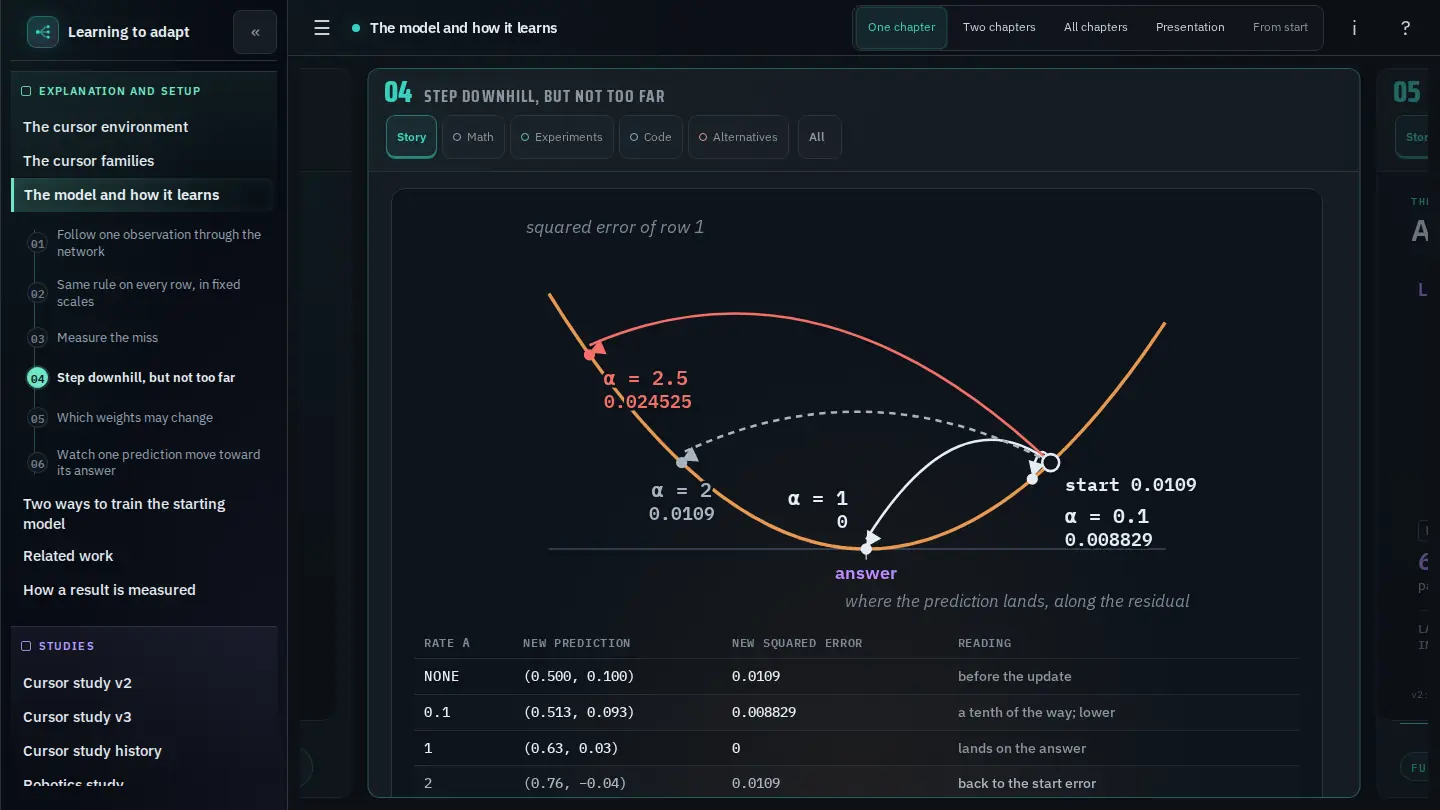
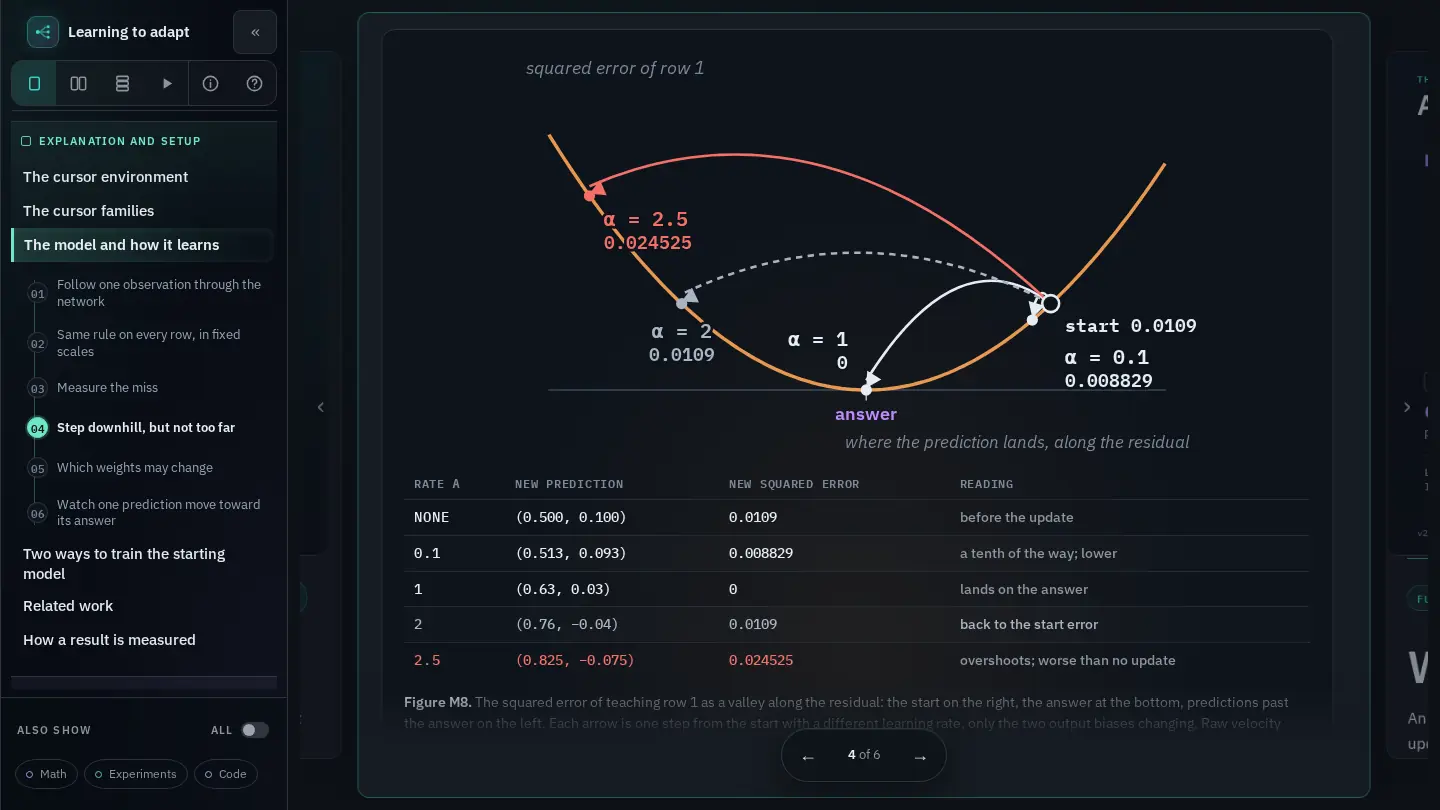
Prepare release 5.7.0: one note for the reader, the colours and the tabs
The branch joins three pieces of work: the new chapter reader, a
project's own site colours with site names in browser tabs, and the
correction for repeated ids of inlined figures. They ship as one
release, so the release note is one section with a part for each, a
part on what a project can meet with the new reader, and what was not
covered. The version is 5.7.0, a minor release without a migration
step.

The open record for the two colour follow-ups of the reader is removed
with its route: both are done. The authoring guide no longer says that
the bar of fold controls stays navy.

The six reader pictures of the showcase are retaken with the new
reader, from the same adaptation commit as before.

The worklog entry records deivid's decisions that led to one release,
how the two branches were joined and what is not checked.

diff --git a/tests/test_theme_colors.py b/tests/test_theme_colors.py
@@ -158,7 +158,7 @@ class Colours(unittest.TestCase):
 
     def test_scripts_draw_their_controls_in_theme_colours(self):
         # Styles that scripts inject read the same properties, with the kit's value as fallback.
-        # The reader's own scripts are left for the reader branch; fold-controls.js stays literal.
+        # Every script is scanned, the reader's own and fold-controls.js included.
         for path in sorted((KIT / 'theme/components').glob('*.js')):
             text = re.sub(r'var\(--[\w-]+,\s*[^()]*\)', '', path.read_text())  # a property with its fallback
             literals = re.findall(r'#[0-9a-fA-F]{6}\b|#[0-9a-fA-F]{3}\b(?![\w-])', text)

diff --git a/docs/topics/releases/releases.md b/docs/topics/releases/releases.md
@@ -26,14 +26,65 @@ gives the step for each. A minor upgrade can therefore need work: the
 [project conformance check](../../../rules/conformance.md) runs strict lint and
 shows the new warnings.
 
-## Unreleased
+## 5.7.0 — a calmer chapter reader, a project's own site colours, site names in browser tabs
 
-The version number is set when this is released. These changes add to the
-stable interfaces, and a project needs no migration step. Without
-`[theme_colors]` the pages look as before; the tab title changes on every
-site that sets `title`. A project whose own browser checks read
-`document.title` or a page's `<title>` must expect the new tab text: the
-kit's own tests changed in four files for it.
+5.7.0 is a minor release under
+[what a version number promises](#what-a-version-number-promises): it adds
+to the stable interfaces, changes how the reader looks and works, corrects
+one defect of the build, and removes nothing a project may rely on. It needs
+no migration step; a project moves its pin to `v5.7.0`. Three things change
+on a site without any action, and a project should look at them once: the
+chapter reader has a new frame, the browser tab names the site first, and a
+reader's choice of section options now holds for the whole page. A project
+whose own browser checks read `document.title` or a page's `<title>` must
+expect the new tab text: the kit's own tests changed in four files for it.
+
+### A calmer chapter reader
+
+deivid put adaptation's home page beside one of its chapters and found the
+chapter less inviting: the frame around a chapter competed with the chapter.
+Four prototypes and a fifth built from his choices led to this reader; he
+tried each step in a browser before it was built into the kit.
+
+- **No top bar while the sidebar is docked.** One row of icons under the
+  site name holds one chapter, two chapters, all chapters, Presentation on a
+  page with a slide face, About and Help. When the sidebar is hidden, or the
+  window is 900 px wide or narrower, a bar with the menu button and the page
+  name stays and the same controls are in the drawer.
+- **A floating stepper.** Previous, the position such as "4 of 6" and next
+  sit in one island at the bottom centre of the chapter. It steps back while
+  the chapter scrolls. The chapter's text fades out above that line.
+- **The Full chapter row sits on the stepper's line** while a chapter is at
+  its top: the label and the reading time at the left, Continue reading at
+  the right. It leaves when the chapter is scrolled. Where the chapter is
+  narrow, the reading time gives way first, then the label.
+- **A chapter's name is its headline.** In One chapter view the strip with
+  the number and the name is gone, and the headline that starts the full
+  chapter is large. A chapter without a headline of its own keeps the strip.
+- **The neighbouring chapters still peek.** The chapter in front takes 89.8%
+  of the stage, where it took 88%; the neighbours are drawn at 90% of their
+  size and dimmer. The click zone of a neighbour is exactly the strip of it
+  that shows. A sideways swipe turns the chapter too; a drag that starts on
+  a control, a figure, a table or anything that scrolls sideways is left
+  alone, and so is any drag while the page is zoomed.
+- **One set of section options for the page.** Under "Also show" at the
+  bottom of the sidebar, an option opens every fold of one kind in every
+  chapter and in both columns. A page offers only the kinds of fold it has.
+  "All" is a switch, and there is no "Story" button: with nothing switched
+  on, the story is what shows. The buttons under each chapter heading are
+  gone. A reader who returns keeps the choice the first column had. In All
+  chapters the Slides switch sits there as well.
+- **A fold can start open, and it remembers its reader.** An author writes
+  `<!-- fold: math (open) Title -->`; a fold written as HTML with `open`
+  counts the same. A reader's own click on a fold is saved for that fold, up
+  to 200 folds a page, and wins on the next visit until an option sets its
+  kind again. See [story and reading layers](../../../rules/writing/explanations.md#story-and-reading-layers).
+- **"From start" is gone.** The Presentation starts at the current chapter.
+- **Pages without the reader** get the same reduced set in their bar of fold
+  controls: no "Story", "All" as a switch, only the kinds the page has.
+- **The rules say that the home page has the reader off.** All four sites
+  already set `reader = false` there; see
+  [shared reading layout](../../../rules/site/reader.md#shared-reading-layout).
 
 ### A project's own site colours
 
@@ -59,9 +110,9 @@ on the kit's navy background.
   colours, and keep the kit's exact value until a project sets one of the
   two. The controls that scripts draw (lightbox, carousel, plot-toggle chips,
   the lock page's notice) read the same properties, and the six group tones
-  and the sidebar's glows follow the hue colours. Syntax colours, the fold
-  hues, the bar of fold controls that `fold-controls.js` draws (still navy),
-  the tinted edges of diagram boxes, print colours and the light backdrop of
+  and the sidebar's glows follow the hue colours. The new reader's parts and the bar of fold
+  controls that `fold-controls.js` draws follow the table as well. Syntax
+  colours, the four fold hues, the tinted edges of diagram boxes, print colours and the light backdrop of
   site-map pictures stay as they were. Colours written in a project's own SVG
   or HTML stay as written.
 - **Figures in the project's colours.** `figure_themes.palette("dark")`,
@@ -75,14 +126,12 @@ on the kit's navy background.
   pair, and `write_both` writes no file. See
   [generated figures](../../../rules/site/authoring.md#generated-figures).
 
-Without the table the pages look exactly as before: screenshots of a
-project's reader, record, listed, Reference index, home and lock pages at
-1600 and 390 px are pixel-identical, and every rule of the eight theme
-stylesheets resolves to the colours it had. The bytes of `base.css`,
-`chapter-reader.css`, `slide-face.css`, `slide-deck.css`, `page-lock.css`,
-`panel-switcher.css`, `home.css`, `build-sheet.css`, `carousel.js`,
-`lightbox.js`, `nav.js`, `plot-toggles.js` and `page-lock.js` change, so each
-page gets new `?v=` queries for them, as for any theme change.
+Without the table the colours are the kit's, as before: every rule of the
+eight theme stylesheets that 5.6.1 had resolves to the colour it had, and
+before the reader changed, screenshots of a project's reader, record, listed,
+Reference index, home and lock pages at 1600 and 390 px were pixel-identical.
+The bytes of the theme's stylesheets and scripts change, so each page gets
+new `?v=` queries for them, as for any theme change.
 
 ### Browser tabs name the site first
 
@@ -100,12 +149,10 @@ starts with the site's `title`:
   [authoring paths](../../../rules/site/authoring.md#authoring-paths).
 
 Every built page of a site with `title` changes in its `<title>` element.
-## 5.6.2 — figures inlined into a page without the reader no longer repeat ids
+### Figures inlined into a page without the reader no longer repeat ids
 
-5.6.2 is a patch release under
-[what a version number promises](#what-a-version-number-promises): it
-corrects one defect of the build and needs no migration step; a project
-moves its pin to `v5.6.2`. ADP reported it: its home page repeated 242 ids.
+ADP reported it: its home page repeated 242 ids. This correction was built
+as 5.6.2 and ships in 5.7.0; there is no separate 5.6.2.
 
 - **The defect.** The build inlines an SVG figure written as
   `<img src="../figures/name.svg">`. On a page with the chapter reader it
@@ -122,7 +169,7 @@ moves its pin to `v5.6.2`. ADP reported it: its home page repeated 242 ids.
   the id. The first figure with an id keeps it. A page with the reader is
   built as before.
 
-What a project can meet. On a page without the reader, an id inside the
+What a project can meet with this correction. On a page without the reader, an id inside the
 second or a later inlined figure changes when an earlier figure has the
 same id. A link from the page's text to such an id reached the first
 figure before and still does. A group of plot toggles keeps the start of
@@ -137,6 +184,32 @@ the first figure, as before. On a page with the reader, a `<style>` rule
 that selects an id is not rewritten; that is older than this release. The
 correction was run on fixtures and on 1,092 SVG files of local projects,
 not on ADP's built home page.
+
+### What a project can meet with the new reader
+
+- **Styles or checks of a project that reach into the reader.** These hooks
+  are gone: `[data-reader-view-select]`, `[data-reader-present-start]`,
+  `.chapter-layers` inside a chapter and `[data-reader-preset]`. The bar
+  `#chapter-reader` is not visible while the sidebar is docked. The reader's
+  class names are provisional interfaces; a project that styled or tested
+  them looks at its pages once.
+- **A fold title that starts with "(open) ".** It is now read as the word
+  that starts the fold open. "(Open)", "(open)" alone and a title with the
+  word elsewhere are titles as before.
+- **A fold written as HTML with `open`.** The reader closed it before; it
+  now starts open, as its author wrote.
+- **Two columns, one choice.** The Two chapters view no longer keeps a
+  choice of options for each column.
+
+### Not covered
+
+Chromium only, as before. No real phone was used: swipe, the drawer and the
+stepper at phone width were run in an emulated touch browser. The swipe
+exemptions for a slider and for a zoomed page are covered by logic tests,
+not in a browser. The bar of fold controls on a page without the reader was
+not looked at under a project's colours. The page types of 5.6.0 and the
+showcase are unchanged, except that the six reader pictures of the showcase
+are retaken with this reader.
 
 ## 5.6.1 — the showcase pictures retaken, and a line on what each shows
 

diff --git a/docs/KIT_WORKLOG.md b/docs/KIT_WORKLOG.md
@@ -2,6 +2,50 @@
 
 Chronology is append-only, newest first. Shared policy stays in `rules/`.
 
+## 2026-11-26 — 5.7.0 on one branch: the new reader joined with the site colours
+
+- One release, by deivid's decisions in order. On the id fix: "well maybe
+  make it one relase not 2". On the order of reader and palette: "Palette
+  first". On releasing the id fix alone before both: "No, keep it with the
+  reader". On one release for palette and reader, owned by the kit owner's
+  session: "Yes, combine here". There is no 5.6.2 tag; its two entries below
+  describe the id fix that ships here.
+- The reader. deivid compared adaptation's home page with a chapter and
+  found the chapter's frame too busy. Four prototypes, laid over a built
+  page as styles, then a fifth from his choices, which he tried in a local
+  copy and changed step by step: views into the sidebar, the stepper as a
+  floating island, the Full chapter row on its line, the chapter's name as
+  headline, narrower and smaller neighbours with fitted click zones, swipe,
+  and the section options back as one set for the page at the bottom of the
+  sidebar, without "Story". "Yes, build 5.7.0."
+- Built by one implementer agent in three commits, with tests, from a
+  written brief and the prototype. An independent review, with no browser,
+  found it not fit to release: hidden click zones that still took clicks in
+  All chapters and on the first and last chapter, folds that closed again
+  on return, keyboard focus under the fade, swipes that fired on sliders,
+  and four smaller points. The implementer confirmed each in a browser and
+  fixed all in one commit with tests.
+- Joined. The palette session handed over branch `site-palette` at
+  `9584cb3` and stopped writing. The reader's eight commits were replayed
+  on it as branch `release-5.7.0`. Conflicts: three blocks in
+  `chapter-reader.css`, where the reader's structure and the palette's
+  colour were both kept, and the two records.
+- The reader's new parts and the bar of `fold-controls.js` read the theme
+  properties, and the three reader scripts are no longer exempt from the
+  script colour test. Without a table, a capture of a chapter before and
+  after differs by at most 2 of 255 in the island and the options panel,
+  where the nearest existing property was taken; nothing else differs. With
+  the brown palette of the first project, the reader's parts are brown.
+- Closed and removed: `docs/open/reader-release-colour-follow-ups.md` with
+  its route. Both of its items are done; the four fold hues are named as
+  kept in the authoring guide. The link to it in the entry of the review
+  fixes below is now plain text.
+- Rules: the reader rules describe the new reader, the explanation rules
+  the `(open)` word, and the home page is said to have the reader off.
+- Not checked: a real phone; swipe exemptions and pinch zoom in a browser;
+  the fold bar of a page without the reader under a project's colours.
+- Not pushed and not tagged. Release waits for deivid's go.
+
 ## 2026-11-26 — `accent` colours the first figure series
 
 - deivid decided against separate interface and content colours: `accent`
@@ -63,7 +107,7 @@ Chronology is append-only, newest first. Shared policy stays in `rules/`.
   longer passed to the lock, `page_lock.py`, `publication.py`,
   `page-lock.html` and two tests are back to their state before the tab
   titles, and a test checks that no lock page holds the site's title.
-- New open work: [two theme-colour follow-ups for the reader release](open/reader-release-colour-follow-ups.md),
+- New open work: two theme-colour follow-ups for the reader release (closed, and the record removed, in the 5.7.0 entry at the top),
   the fold controls and the redone colour commit of `chapter-reader.css`.
 
 ## 2026-11-26 — Scripts and group tones follow `[theme_colors]`

diff --git a/README.md b/README.md
@@ -176,7 +176,7 @@ says how to check and create it.
 The kit is versioned in `VERSION` and tagged `v<version>`. [Releases and
 upgrades](docs/topics/releases/releases.md) lists what each version changes for
 consumers and the migration steps; 1.0.0 is the first stable version.
-The current release is 5.6.2, a patch that needs no migration step. The [5.5.0 migration guide](docs/topics/releases/migrations/5.5.0.md) covers the lint warning for a repeated id and the larger small labels. The [5.2.0 migration guide](docs/topics/releases/migrations/5.2.0.md) covers generated figures in two themes and the lint warning for untracked tooling; the [5.1.0 guide](docs/topics/releases/migrations/5.1.0.md) starts with which folders the Reference section lists, a decision a private repository with a public site makes before it moves the pin; the [5.0.0 guide](docs/topics/releases/migrations/5.0.0.md), the [4.0.0 guide](docs/topics/releases/migrations/4.0.0.md), the [3.2.0 guide](docs/topics/releases/migrations/3.2.0.md), the [3.1.0 guide](docs/topics/releases/migrations/3.1.0.md), the [3.0.0 guide](docs/topics/releases/migrations/3.0.0.md), the [2.0.0 guide](docs/topics/releases/migrations/2.0.0.md) and the [1.1.0 guide](docs/topics/releases/migrations/1.1.0.md) cover the earlier steps.
+The current release is 5.7.0, a minor release that needs no migration step. The [5.5.0 migration guide](docs/topics/releases/migrations/5.5.0.md) covers the lint warning for a repeated id and the larger small labels. The [5.2.0 migration guide](docs/topics/releases/migrations/5.2.0.md) covers generated figures in two themes and the lint warning for untracked tooling; the [5.1.0 guide](docs/topics/releases/migrations/5.1.0.md) starts with which folders the Reference section lists, a decision a private repository with a public site makes before it moves the pin; the [5.0.0 guide](docs/topics/releases/migrations/5.0.0.md), the [4.0.0 guide](docs/topics/releases/migrations/4.0.0.md), the [3.2.0 guide](docs/topics/releases/migrations/3.2.0.md), the [3.1.0 guide](docs/topics/releases/migrations/3.1.0.md), the [3.0.0 guide](docs/topics/releases/migrations/3.0.0.md), the [2.0.0 guide](docs/topics/releases/migrations/2.0.0.md) and the [1.1.0 guide](docs/topics/releases/migrations/1.1.0.md) cover the earlier steps.
 
 Then run the [project conformance check](rules/conformance.md) and report its
 findings. Review changed human pages at wide and narrow widths before committing the

diff --git a/docs/topics/build-a-site/index.md b/docs/topics/build-a-site/index.md
@@ -301,7 +301,7 @@ A single scroll is still available as **All chapters**, and it is what print and
 <img src="../topics/build-a-site/media/showcase/against-reference-face.webp" alt="Slide face from the adaptation project: a direct polynomial fit compared with the neural settings on six laws.">
 <img src="../topics/build-a-site/media/showcase/against-reference-reader.webp" alt="Its chapter in the reader: the mean error for each of six laws, the neural settings beside the direct fit.">
 </div>
-<figcaption><b>Figure 3.</b> Six chapters of the adaptation project in a carousel: each slide face, then its chapter in the reader, scrolled to its main figure. They are examples of what a project can build with the kit, not templates. They were captured from that project at its commit <code>d22ef36</code> on 2026-11-25 and are not maintained; the text and numbers are the project's. The carousel advances by itself and pauses on hover; click a picture to open it full screen, scroll to zoom, drag to pan, <kbd>Esc</kbd> to close.</figcaption>
+<figcaption><b>Figure 3.</b> Six chapters of the adaptation project in a carousel: each slide face, then its chapter in the reader, scrolled to its main figure. They are examples of what a project can build with the kit, not templates. They were captured from that project at its commit <code>d22ef36</code>, the slide faces on 2026-11-25 and the reader pictures again on 2026-11-26 with the reader of 5.7.0, and are not maintained; the text and numbers are the project's. The carousel advances by itself and pauses on hover; click a picture to open it full screen, scroll to zoom, drag to pan, <kbd>Esc</kbd> to close.</figcaption>
 </figure>
 
 What each example shows, in the order of the carousel:

diff --git a/docs/open/KIT_OPEN.md b/docs/open/KIT_OPEN.md
@@ -6,4 +6,3 @@ Routes only. The linked owner holds the checklist, rationale and evidence.
 - Frozen-record machinery: the kit's side is done for 5.0.0; adaptation's cleanup at its upgrade remains: [what is done and what remains](simplify-frozen-record-machinery.md).
 - Two questions for deivid from the approval-failed-open record, whether an approval covers only what the ask said and whether an ask states the size of what it would build: [questions and evidence](approval-scope-and-ask-size.md).
 - A trial of the changed slide-face rule on adaptation's faces: [the owed trial](upgrade-to-4.0.0-findings.md).
-- Two theme-colour follow-ups for the reader release: the fold controls follow `[theme_colors]`, and the reader stylesheet's colour commit is redone on its restructured file: [the follow-ups](reader-release-colour-follow-ups.md).

diff --git a/rules/site/authoring.md b/rules/site/authoring.md
@@ -552,10 +552,7 @@ tone from `#6ee7c5` to `#74e0d3`. The table sets base colours only.
 The table recolours the theme, not a project's content: colours written as
 literals in a project's own SVG, HTML or page CSS stay as written, and so do
 figures until their generator runs again ([generated figures](#generated-figures)).
-Two parts of the kit stay as they were too: the bar of fold controls that
-`fold-controls.js` draws, which is still navy, and the fold-type hues. They
-follow in a later release, tracked in the kit's
-[open work](../../docs/open/reader-release-colour-follow-ups.md).
+The four fold-type hues stay as they were too, under any table.
 
 The build checks that the colours keep text readable, with the ratios of the
 [figure palettes](#generated-figures): 4.5:1 for text and 3:1 for marks. It

diff --git a/docs/KIT_CONTEXT.md b/docs/KIT_CONTEXT.md
@@ -34,7 +34,7 @@ owns the shared panel switcher's authoring, behavior and extraction checks.
 
 [Releases and upgrades](topics/releases/releases.md) owns version notes and
 consumer migration steps; `VERSION` holds the current version.
-The current release is 5.6.2, a patch without a migration step. The
+The current release is 5.7.0, a minor release without a migration step. The
 [5.5.0 migration guide](topics/releases/migrations/5.5.0.md) covers the
 warning for a repeated id and the larger small labels. The
 [5.2.0 migration guide](topics/releases/migrations/5.2.0.md) covers

diff --git a/docs/KIT_INDEX.md b/docs/KIT_INDEX.md
@@ -50,7 +50,7 @@ shared independent-comparison component.
 [Releases and upgrades](topics/releases/releases.md) owns version changes,
 stable interfaces and what a version number promises. The
 [5.5.0 migration guide](topics/releases/migrations/5.5.0.md) moves 5.2.0 to
-5.4.1 consumers to 5.5.0; the current 5.6.2 needs no step. The
+5.4.1 consumers to 5.5.0; the current 5.7.0 needs no step. The
 [5.2.0 migration guide](topics/releases/migrations/5.2.0.md)
 moves 5.1.0 consumers to 5.2.0. The
 [5.1.0 guide](topics/releases/migrations/5.1.0.md) moves 5.0.0 consumers to
